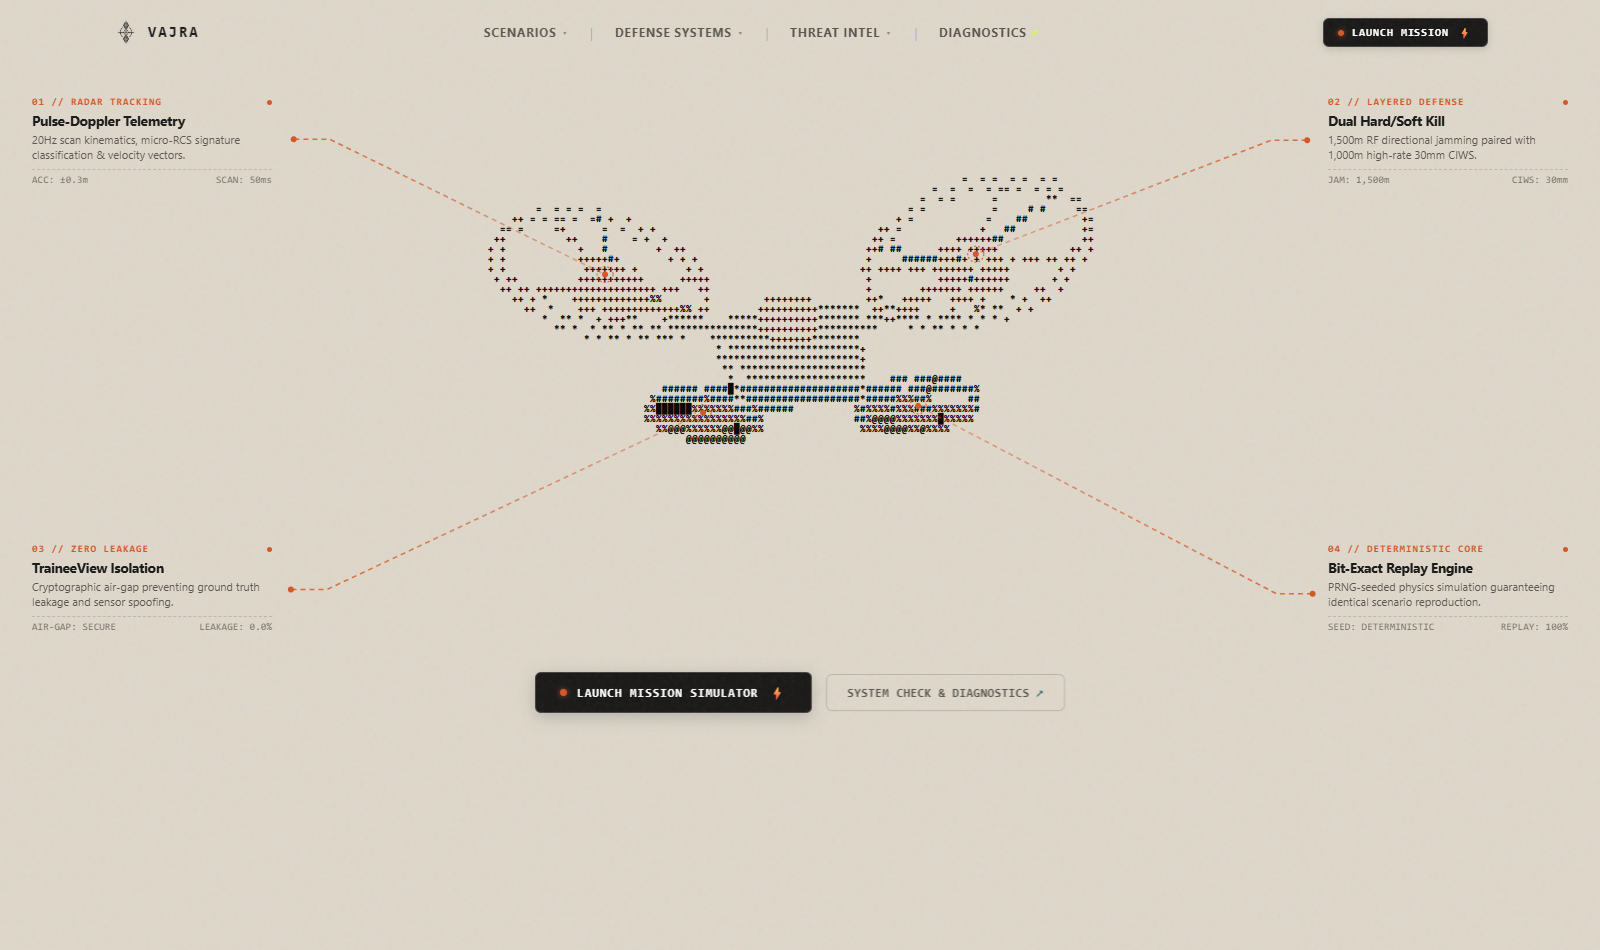
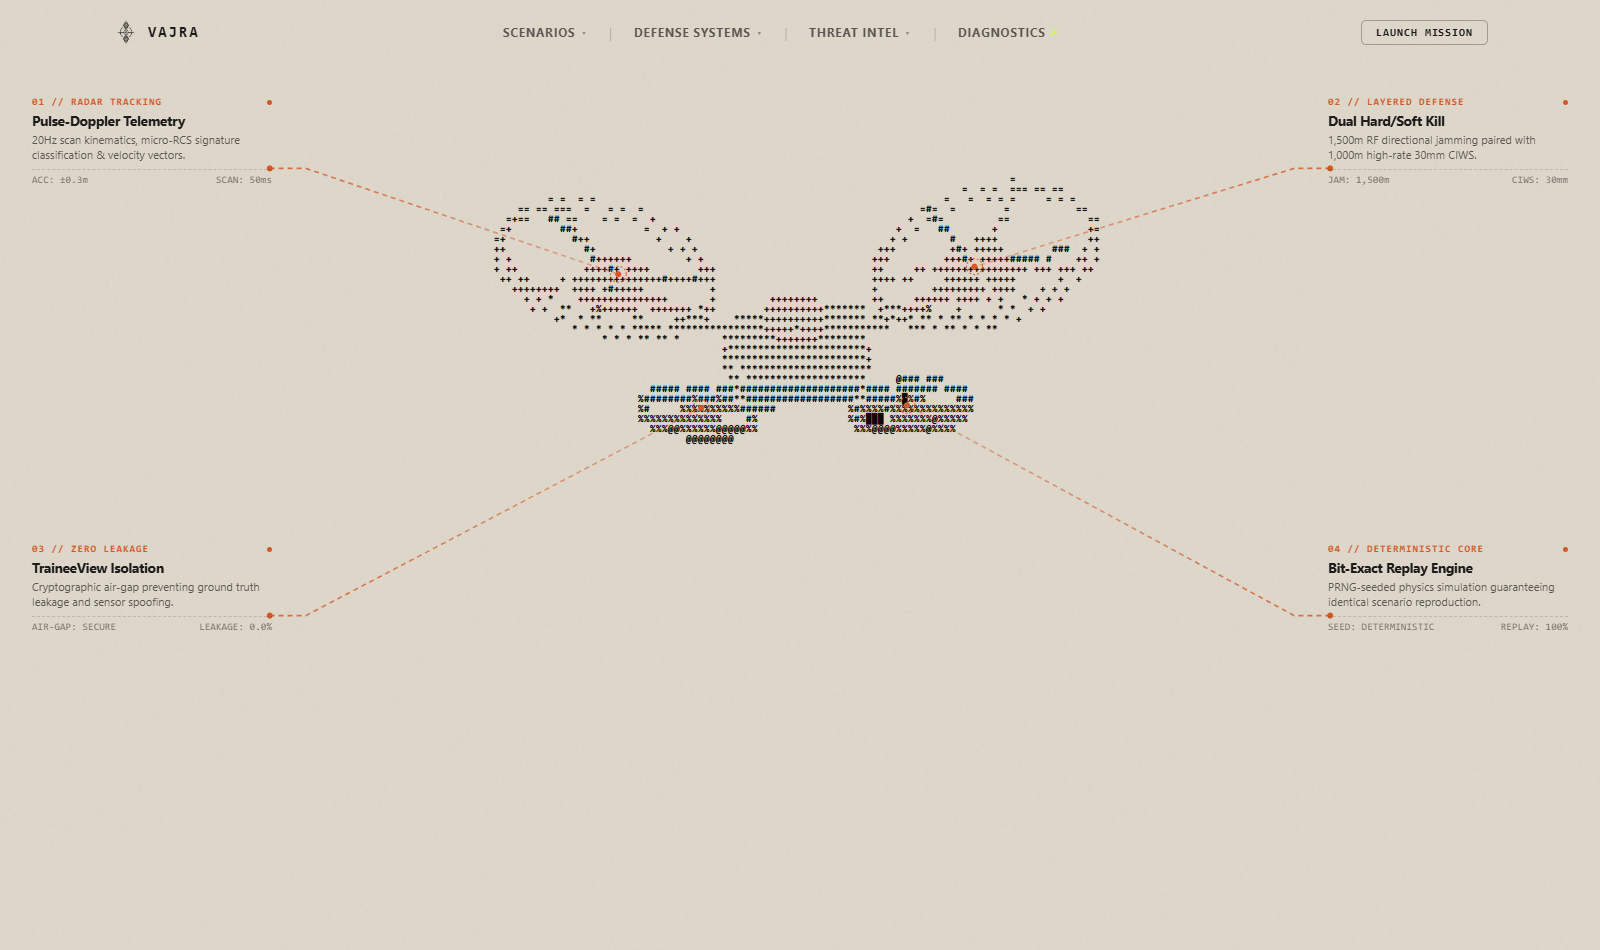
fix(ui): remove hero CTA row, make navbar button transparent with black text, and fix rotor dot tracking on 4 drone arms

diff --git a/src/app/components/DroneAsciiSimulation.tsx b/src/app/components/DroneAsciiSimulation.tsx
@@ -335,15 +335,22 @@ export function DroneAsciiSimulation({
       ? { x: c4.left - cont.left - standoff, y: c4.top - cont.top + c4.height / 2 }
       : { x: cont.width - 275, y: cont.height - 80 };
 
+    // When rendered with 116 monospace characters, the grid is ~760px wide by ~480px high
+    const isPopulated = pre.width > 400 && pre.height > 250;
+    const preWidth = isPopulated ? pre.width : 780;
+    const preHeight = isPopulated ? pre.height : 512;
+    const preLeft = isPopulated ? pre.left - cont.left : (cont.width - preWidth) / 2;
+    const preTop = isPopulated ? pre.top - cont.top : (cont.height - preHeight) / 2;
+
     layoutRef.current = {
       c1: c1Pos,
       c2: c2Pos,
       c3: c3Pos,
       c4: c4Pos,
-      preLeft: pre.left - cont.left,
-      preTop: pre.top - cont.top,
-      preWidth: pre.width > 0 ? pre.width : 800,
-      preHeight: pre.height > 0 ? pre.height : 480,
+      preLeft,
+      preTop,
+      preWidth,
+      preHeight,
     };
 
     if (svgRef.current) {
@@ -372,6 +379,14 @@ export function DroneAsciiSimulation({
     updateLayoutBounds();
     const handleResize = () => updateLayoutBounds();
     window.addEventListener('resize', handleResize);
+
+    let resizeObserver: ResizeObserver | null = null;
+    if (typeof ResizeObserver !== 'undefined') {
+      resizeObserver = new ResizeObserver(() => updateLayoutBounds());
+      if (containerRef.current) resizeObserver.observe(containerRef.current);
+      if (preRef.current) resizeObserver.observe(preRef.current);
+    }
+
     // Extra pass after DOM settle
     const timer = setTimeout(updateLayoutBounds, 120);
 
@@ -383,6 +398,7 @@ export function DroneAsciiSimulation({
     return () => {
       window.removeEventListener('resize', handleResize);
       window.removeEventListener('mod:reassemble-drone', handleReassemble);
+      if (resizeObserver) resizeObserver.disconnect();
       clearTimeout(timer);
     };
   }, []);
@@ -400,6 +416,10 @@ export function DroneAsciiSimulation({
       }
       const elapsed = Math.max(0, (currentTime - assemblyStartTimeRef.current) / 1000);
       const globalProgress = Math.min(1.0, elapsed / ASSEMBLY_DURATION);
+
+      if (layoutRef.current.preWidth < 400 && preRef.current && preRef.current.offsetWidth > 300) {
+        updateLayoutBounds();
+      }
 
       if (isRotating && !isDraggingRef.current) {
         // High-tech swirling vortex during assembly that gently settles into stable rotation speed
@@ -528,21 +548,28 @@ export function DroneAsciiSimulation({
 
       const { c1, c2, c3, c4, preLeft, preTop, preWidth, preHeight } = layoutRef.current;
 
+      // Note: <pre> has padding: 16px. Monospace character canvas grid spans within the inner bounds.
+      const textPad = 16;
+      const innerW = Math.max(100, preWidth - textPad * 2);
+      const innerH = Math.max(100, preHeight - textPad * 2);
+      const originX = preLeft + textPad;
+      const originY = preTop + textPad;
+
       const rTL = {
-        x: preLeft + (tlPt.screenX / cols) * preWidth,
-        y: preTop + (tlPt.screenY / rows) * preHeight,
+        x: originX + (tlPt.screenX / cols) * innerW,
+        y: originY + (tlPt.screenY / rows) * innerH,
       };
       const rBL = {
-        x: preLeft + (blPt.screenX / cols) * preWidth,
-        y: preTop + (blPt.screenY / rows) * preHeight,
+        x: originX + (blPt.screenX / cols) * innerW,
+        y: originY + (blPt.screenY / rows) * innerH,
       };
       const rTR = {
-        x: preLeft + (trPt.screenX / cols) * preWidth,
-        y: preTop + (trPt.screenY / rows) * preHeight,
+        x: originX + (trPt.screenX / cols) * innerW,
+        y: originY + (trPt.screenY / rows) * innerH,
       };
       const rBR = {
-        x: preLeft + (brPt.screenX / cols) * preWidth,
-        y: preTop + (brPt.screenY / rows) * preHeight,
+        x: originX + (brPt.screenX / cols) * innerW,
+        y: originY + (brPt.screenY / rows) * innerH,
       };
 
       // HUD Leader Lines and reticles fade in once rotors dock into place (progress 0.70 -> 1.0)

diff --git a/src/app/console/MissionSetup.tsx b/src/app/console/MissionSetup.tsx
@@ -104,28 +104,7 @@ export function MissionSetup({ onStart }: MissionSetupProps): React.JSX.Element 
       {/* Skiper14-Inspired 3D ASCII Drone Hero Section */}
       <DroneHeroSection />
 
-      {/* Hero Tactical Launch CTA */}
-      <div style={styles.heroActionHub} className="anim-curved-slide anim-delay-3">
-        <button
-          type="button"
-          onClick={() => setIsModalOpen(true)}
-          style={styles.heroPrimaryBtn}
-          id="btn-hero-launch-mission"
-          className="hero-launch-btn"
-          title="Open Scenario Setup & Launch Simulator"
-        >
-          <span style={styles.heroBtnDot} />
-          <span>LAUNCH MISSION SIMULATOR</span>
-          <span style={{ fontSize: '13px', color: '#f59e0b' }}>⚡</span>
-        </button>
-
-        <a href="#/check" style={styles.heroSecondaryLink}>
-          <span>SYSTEM CHECK & DIAGNOSTICS</span>
-          <span style={{ fontSize: '11px', color: '#2d6b75' }}>↗</span>
-        </a>
-      </div>
-
-      {/* Tactical Mission Briefing Modal Overlay (Triggered from Navbar or Hero CTA) */}
+      {/* Tactical Mission Briefing Modal Overlay (Triggered from Navbar or Hero) */}
       <div
         className={`briefing-modal-overlay ${isModalOpen ? 'is-open' : ''}`}
         style={{
@@ -267,57 +246,6 @@ const styles: Record<string, React.CSSProperties> = {
     backgroundColor: 'transparent',
     overflowY: 'auto',
     width: '100%',
-  },
-  heroActionHub: {
-    display: 'flex',
-    alignItems: 'center',
-    justifyContent: 'center',
-    gap: '14px',
-    marginTop: '-8px',
-    marginBottom: '28px',
-    zIndex: 10,
-    flexWrap: 'wrap',
-  },
-  heroPrimaryBtn: {
-    display: 'inline-flex',
-    alignItems: 'center',
-    gap: '10px',
-    backgroundColor: '#181716',
-    color: '#ffffff',
-    border: '1px solid rgba(255, 255, 255, 0.16)',
-    borderRadius: '6px',
-    padding: '11px 24px',
-    fontSize: '12px',
-    fontWeight: 700,
-    fontFamily: 'monospace',
-    letterSpacing: '0.08em',
-    cursor: 'pointer',
-    boxShadow: '0 4px 16px rgba(24, 23, 22, 0.2)',
-    transition: 'all 0.2s cubic-bezier(0.16, 1, 0.3, 1)',
-  },
-  heroBtnDot: {
-    width: '7px',
-    height: '7px',
-    borderRadius: '50%',
-    backgroundColor: '#d35623',
-    boxShadow: '0 0 6px #d35623',
-    display: 'inline-block',
-  },
-  heroSecondaryLink: {
-    display: 'inline-flex',
-    alignItems: 'center',
-    gap: '6px',
-    backgroundColor: 'transparent',
-    color: '#58544e',
-    border: '1px solid rgba(45, 40, 35, 0.2)',
-    borderRadius: '6px',
-    padding: '10px 20px',
-    fontSize: '11.5px',
-    fontWeight: 600,
-    fontFamily: 'monospace',
-    letterSpacing: '0.06em',
-    textDecoration: 'none',
-    transition: 'all 0.2s cubic-bezier(0.16, 1, 0.3, 1)',
   },
   modalHeaderRow: {
     display: 'flex',

diff --git a/src/app/styles/console.css b/src/app/styles/console.css
@@ -598,6 +598,32 @@ button, a, input, select {
   transform: scale(1.05);
 }
 
+.nav-launch-cta-transparent {
+  display: inline-flex;
+  align-items: center;
+  justify-content: center;
+  background-color: transparent !important;
+  background: transparent !important;
+  color: #181716 !important;
+  border: 1px solid rgba(45, 40, 35, 0.35) !important;
+  border-radius: 5px;
+  padding: 6px 14px;
+  font-size: 11px;
+  font-weight: 700;
+  letter-spacing: 0.08em;
+  font-family: monospace;
+  cursor: pointer;
+  box-shadow: none !important;
+  transition: all 0.2s cubic-bezier(0.16, 1, 0.3, 1);
+}
+
+.nav-launch-cta-transparent:hover {
+  background-color: rgba(45, 40, 35, 0.08) !important;
+  border-color: #181716 !important;
+  color: #181716 !important;
+  transform: translateY(-1px);
+}
+
 .nav-launch-cta {
   display: inline-flex;
   align-items: center;

diff --git a/src/app/console/TopBar.tsx b/src/app/console/TopBar.tsx
@@ -633,15 +633,11 @@ export function TopBar({
             <div style={styles.setupNavRight} className="anim-curved-slide anim-delay-5">
               <button
                 id="btn-nav-launch-mission"
-                className="nav-launch-cta"
+                className="nav-launch-cta-transparent"
                 onClick={() => openBriefingModal()}
                 title="Launch Mission Simulator"
               >
-                <span style={styles.navLaunchDot} />
-                <span>
-                  <TextRoll center stagger={0.02}>LAUNCH MISSION</TextRoll>
-                </span>
-                <span style={{ fontSize: '11px', color: '#f59e0b' }}>⚡</span>
+                <TextRoll center stagger={0.02}>LAUNCH MISSION</TextRoll>
               </button>
             </div>
           ) : (
